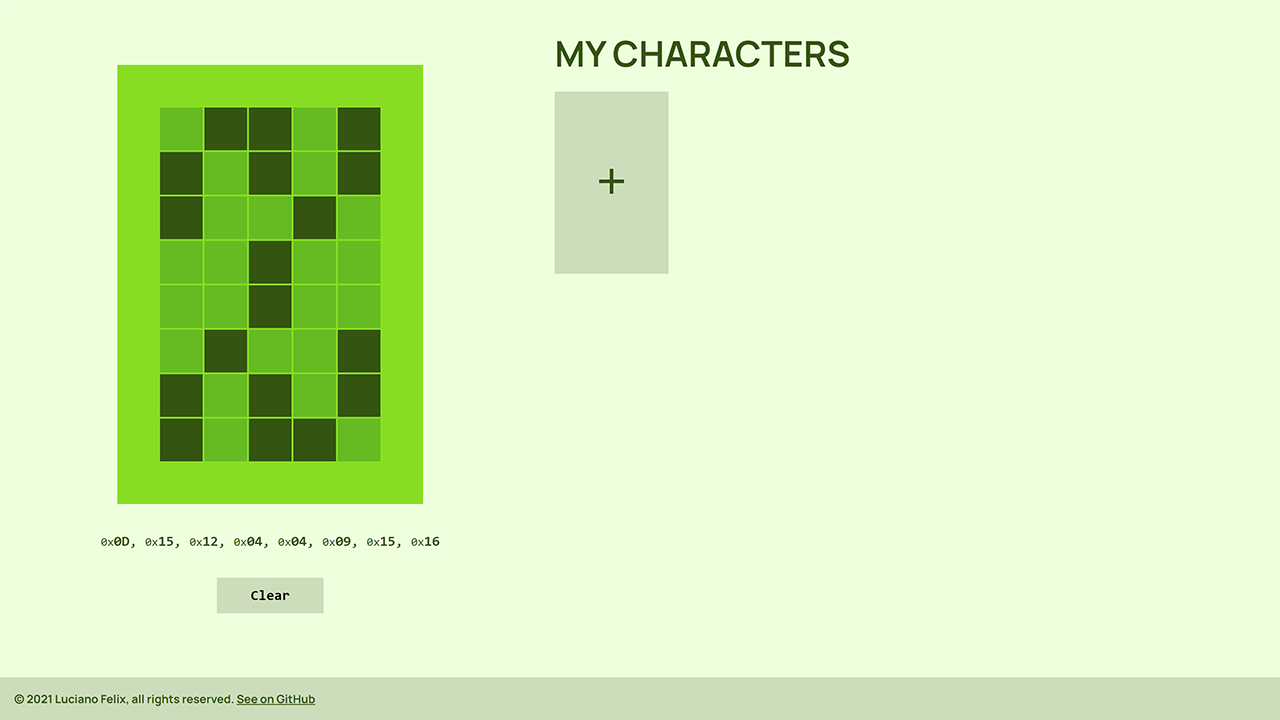
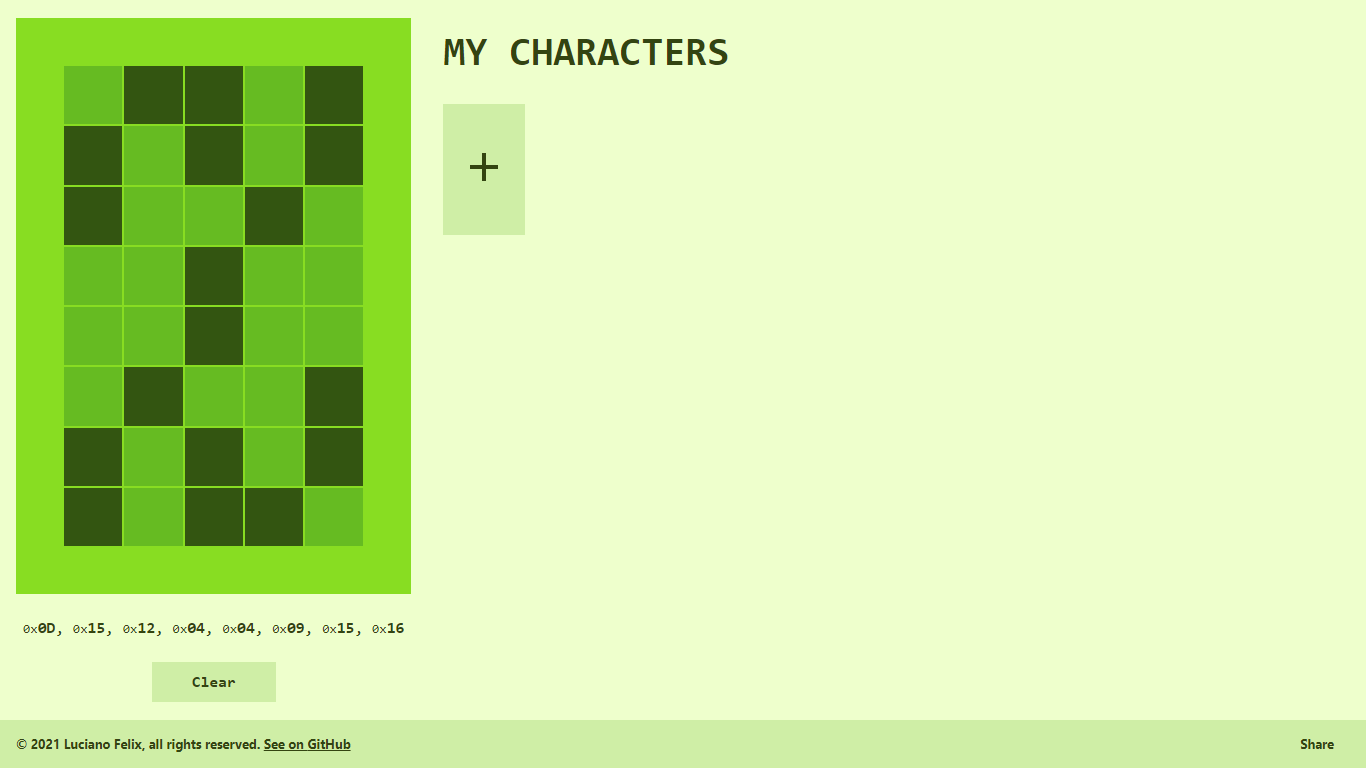
Fixed Collection grid & Updated App Screenshot

Changed region(s): [[0.0, 0.0, 1.0, 1.0]]

diff --git a/css/style.css b/css/style.css
@@ -199,7 +199,7 @@ header {
 	padding: 0 1rem 0 1rem;
 	display: grid;
 	grid-template-columns: 100%;
-	grid-template-rows: 0fr 1fr;
+	grid-template-rows: 0fr 0fr;
 	overflow-y: auto;
 }
 
